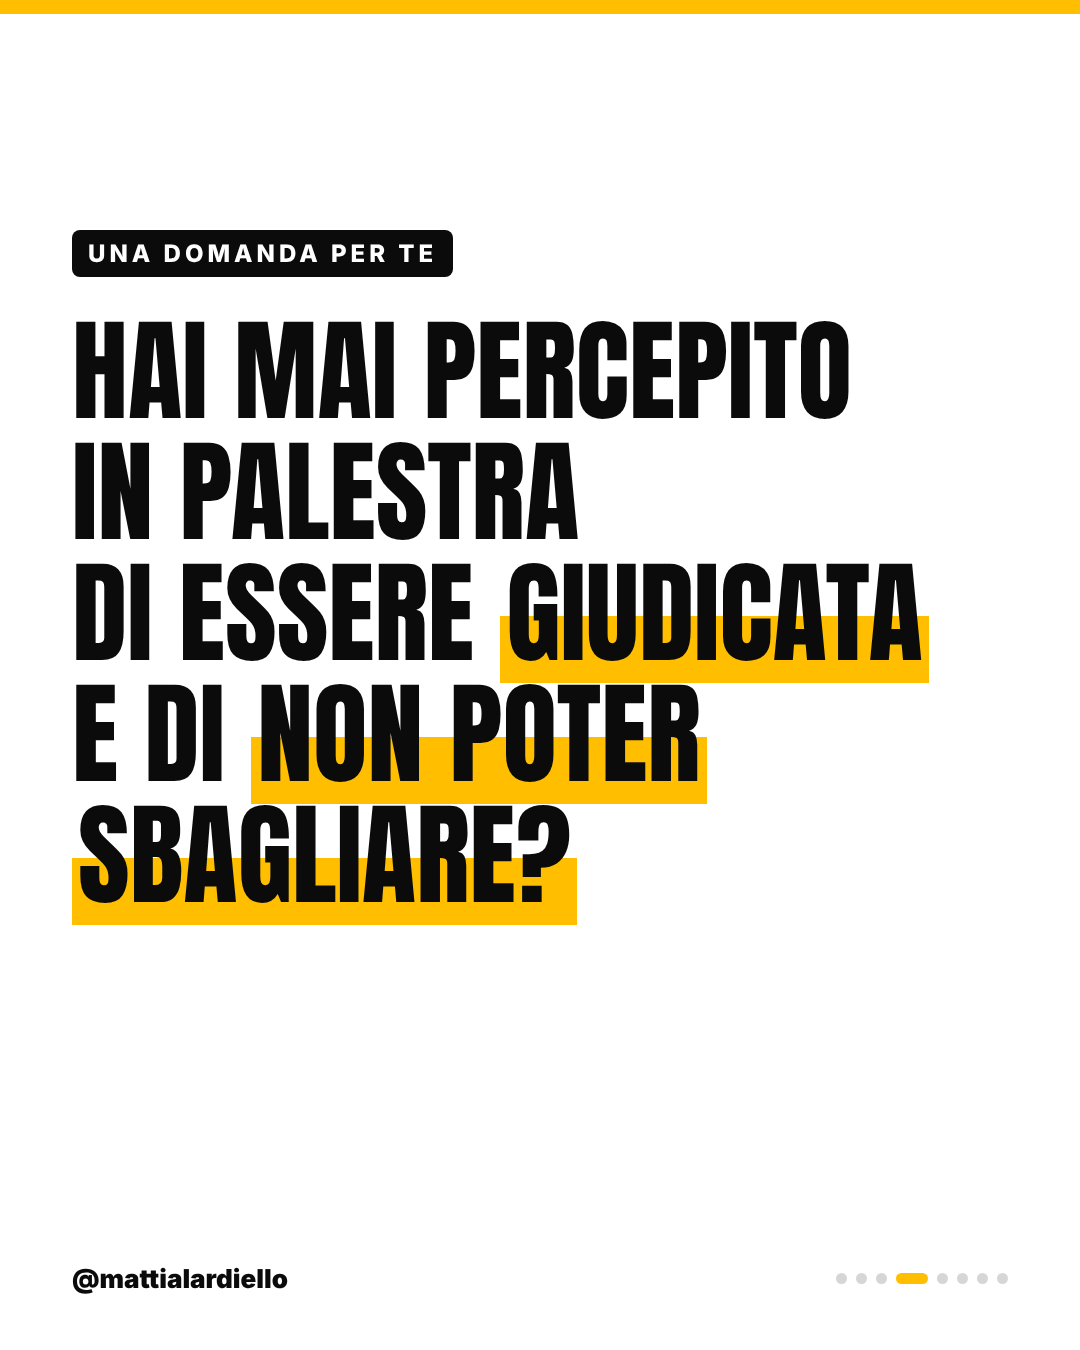
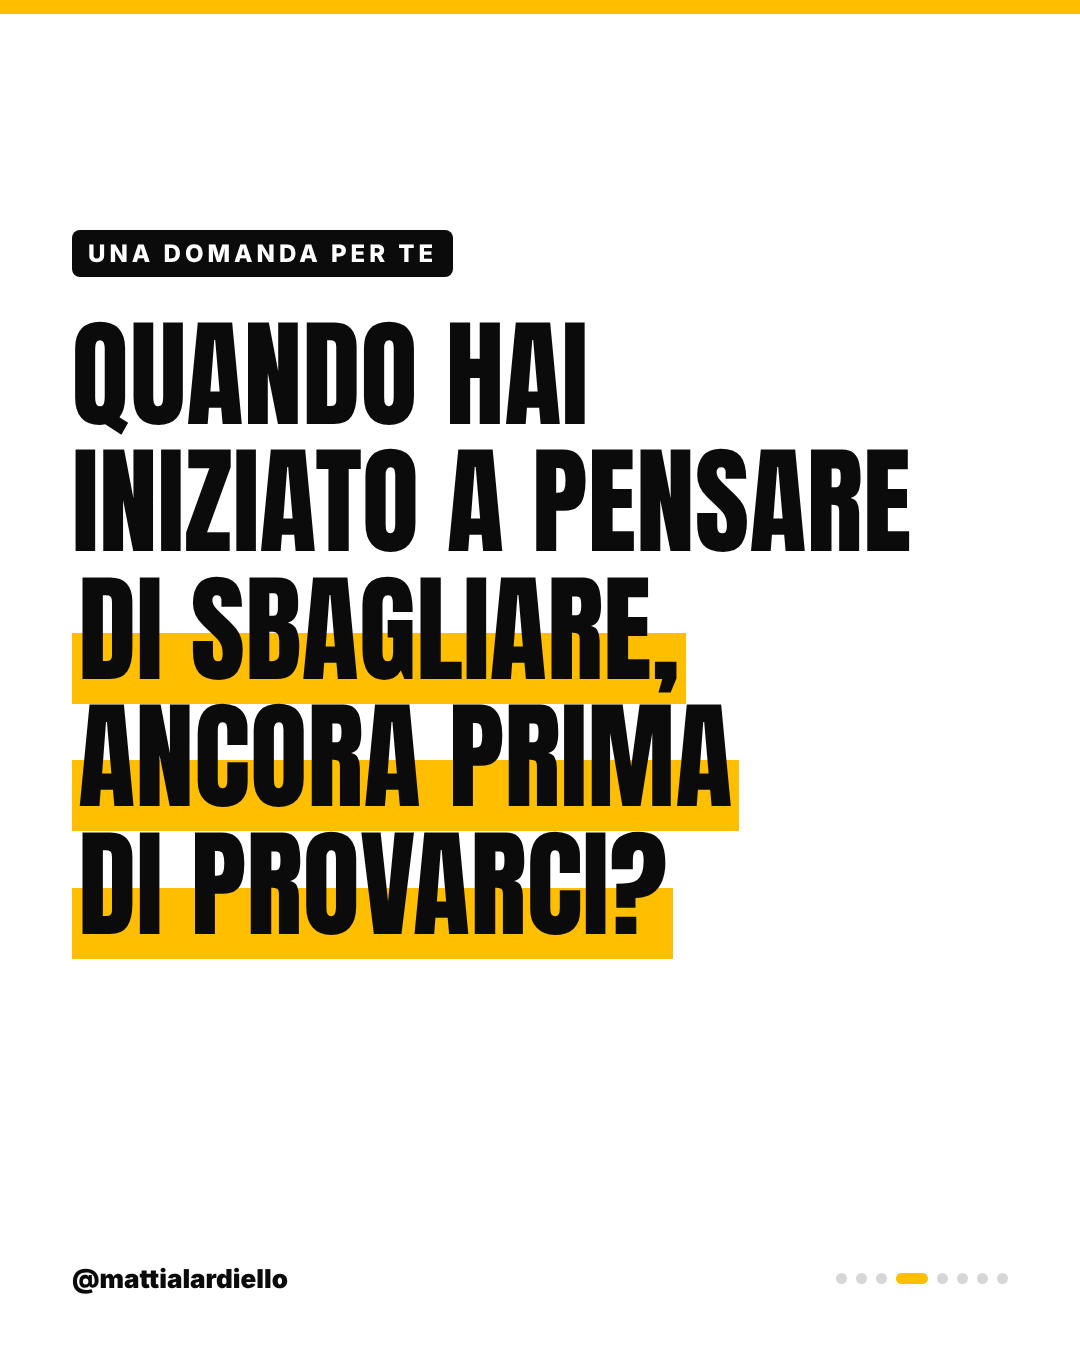
Ho sbagliato: domanda 'giudicata' nella CTA finale
Claude-Session: https://claude.ai/code/session_014pNAwoV69TZpDWEUzr7pF6

Changed region(s): [[0.0611, 0.2178, 0.8861, 0.7156]]

diff --git a/contenuti-instagram/README.md b/contenuti-instagram/README.md
@@ -225,7 +225,7 @@ Ricorda: consenso scritto della cliente prima di pubblicare.
 >
 > Nel mio studio vale lo stesso: gli esercizi si correggono e si ottimizzano, un dettaglio alla volta. Mi piace lavorare da coach: guidarti a migliorare, non giudicarti.
 >
-> Ti è mai capitato di pensare "ho sbagliato" a metà serie? Scrivimi "SÌ" nei commenti 👇
+> Hai mai percepito in palestra di essere giudicata e di non poter sbagliare? Scrivimi "SÌ" nei commenti 👇
 > 📍 ML LAB – Bovolone
 >
 > #allenamentofemminile #personaltrainer #tecnicaesercizi #iniziareadallenarsi #ansiadaprestazione #coaching #allenatoreportieri #personaltrainerverona #personaltrainerbovolone #mllab
